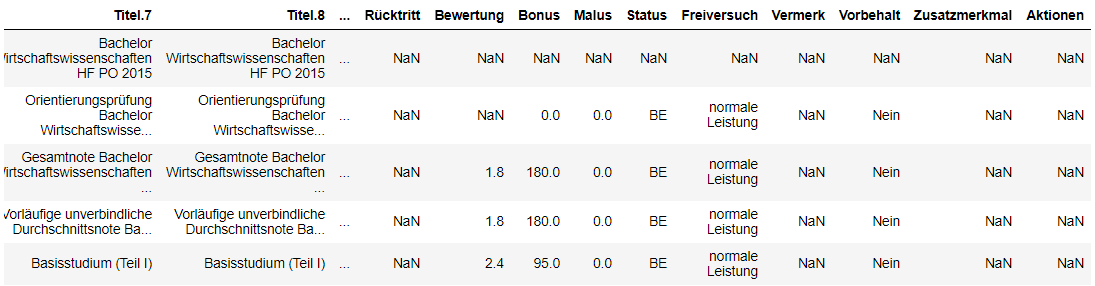
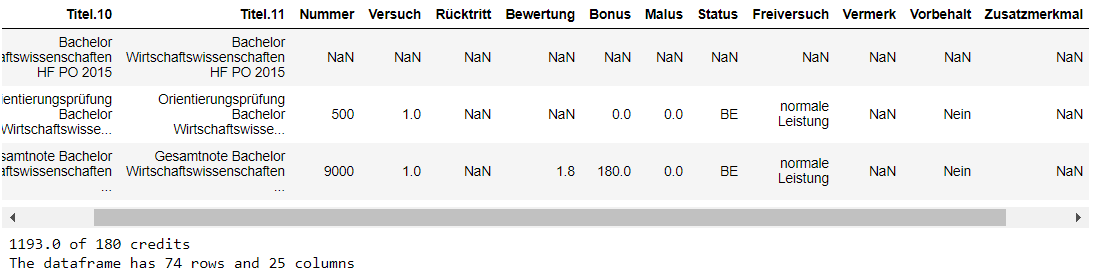
new github

diff --git a/_posts/2020-05-25-Visualizing-the-Composition-of-Study-Programmes-in-Python.md b/_posts/2020-05-25-Visualizing-the-Composition-of-Study-Programmes-in-Python.md
@@ -14,8 +14,10 @@ excerpt: "A short introduction in Web Scraping and Data Visualization in Python"
 
 ---
 
-In this blog post I am going to explain the steps starting from a data table we see on a particular web page, over data cleansing and manipulating thus we end up with a user-friendly presentation of the data.\n
-When performing the analysis steps I often do only present the first few rows of the dataframe to save some space.
+In this blog post I am going to explain the steps starting from a data table we see on a particular web page, over data cleansing and manipulating thus we end up with a user-friendly presentation of the data.
+
+When performing the analysis steps I often do only present the first few rows of the dataframe to save some space.  
+Furthermore, you may read the comments in the coding-section (indicated with **#**) to better understand the written code.
 
 The final result will be a visually representation of the bachelor programme I have attended in Konstanz:
 
@@ -25,8 +27,8 @@ The final result will be a visually representation of the bachelor programme I h
 ## Let's start from scratch!
 
 ### 1. Scrape some data from the web
-There are several libraries for web scraping available. The most common in python are BeautifulSoup and Selenium. Both have their advantages and disadvantages but are intuitively and easy to apply.
-Due to complexity issues of the exam table I use a combination of both in this project.
+There are several libraries for web scraping available. The most common in python are BeautifulSoup and Selenium. Both have their advantages and disadvantages but are intuitively and easy to apply.  
+Due to complexity issues of the exam table we want to scrape in this session I use a combination of both in this project. Selenium has to unveil the required information before the HTML-code can be extracted.
 
 ### 1.1 Set-up the webdriver for your browser
 ```python
@@ -39,7 +41,7 @@ Due to complexity issues of the exam table I use a combination of both in this p
   options.add_argument("--disable-setuid-sandbox")
 ```
 
-### 1.2 Login on the website and navigate to Exam Results
+### 1.2 Login on the Website and Navigate to Exam Results
 ```python
   driver = webdriver.Chrome("...path to you chromedriver.exe...", options=options)#
 
@@ -55,19 +57,21 @@ Due to complexity issues of the exam table I use a combination of both in this p
   password.send_keys("...Password...")
   driver.find_element_by_name("...Element name of Login Button...").click()
 
-  #navigate to the exam results (in this case we deal with an collapsed table thus we need to manually expand the table with Selenium)
+  #navigate to the exam results
+  #(in this case we deal with an collapsed table thus we need to manually expand the table with Selenium)
   driver.get('...Link of the page with your exam results...')
   #find the element to expand the whole table
   driver.find_element_by_id("...id of element that expands the whole table").click()
 ```
 
-First, the algorithm opens the login page and continues entering the login details and "click" submit. Second, it navigates to the page that contains exam results and expands all the root nodes to unveil all modules. At this point we are able to extract the needed HTML-code from the web page.
+First, the algorithm opens the login page and continues entering the login details and "click" submit. Second, it navigates to the page that contains exam results and expands all the root nodes to unveil all modules. At this point we are able to extract the needed HTML-code from the web page.  
+The required information about the web page's elements can be found by the web developer tool of your browser.
 
 ![Selenium Worksteps](/assets/videos/selenium-login-and-toggle.gif)
 
-### 1.3 Find the table of interest and get the HTML code with BeautifulSoup
-In the next step I need to extract the unveiled information. For this purpose I use BeautifulSoup to receive the HTML-code of the result table that is found by the xpath. The xpath is provided by the chrome developer tool. (Check out the web for further explanation)
-Soup_expanded provides the HTML-code of the exam results.
+### 1.3 Find the Table of Interest and get the HTML Code with BeautifulSoup
+In the next step we need to extract the unveiled information. For this purpose we make use of the BeautifulSoup library to receive the HTML-code of the results table that ca be found by its xpath. The xpath is also provided by the web developer tool of your browser. (Check out the web for further explanation)  
+The extracted HTML-code that contains unwrapped information is assigned to the variable _Soup_expanded_.
 
 ```python
   from bs4 import BeautifulSoup
@@ -80,7 +84,7 @@ Soup_expanded provides the HTML-code of the exam results.
 ```
 
 ### 1.4 Create a Pandas Dataframe
-At this point we scraped the data but cannot process the information we received so far. In order to perform data cleansing and manipulation to visualize the data, we assign the HTML-code to a Pandas DataFrame.
+At this point we scraped the data but cannot process the information so far since it is still in HTML-format. In order to perform data cleansing and manipulation to with the goal to visualize data, we assign the HTML-code to a Pandas DataFrame.
 
 ```python
   import pandas as pd
@@ -90,21 +94,28 @@ At this point we scraped the data but cannot process the information we received
 
   #Giving the HTML table to pandas to put in a dataframe object
   df = pd.read_html(str(table), header=1)[0]
+
+  print("The dataframe has",df.shape[0], "rows and", df.shape[1],"columns")
+  print(df["Bonus"].sum(), "of 180 credits")
 ```
 
-Finally, we received a cross-sectional data table that provides observations in rows and different variables (e.g. Grade, Credits, Attempt, Module_nr) in the columns. However, since we have some columns that do not provide utility, we are going to tide up!
+Finally, we receive a cross-sectional data table that provides observations in rows and different variables (e.g. Grade, Credits, Attempt, Module_nr) in the columns. However, since we have some columns that are a bit messy, we are going to tide it up! We find a dataframe shape of 74x25 [rows x columns]. I do not remember that I participated in that many exams!  
+Further, when adding up all credits included in the data, we receive unbeatable 1193 credit points.
 
 ![df.head()](/assets/images/posts/25_05_20/1_4_df.png)
 
 ### 2. Wrangle Dangle Ding Dong!
 ### 2.1 Clean Data is good Data
-Our dataset is quite small thus it seems relatively easy to structure the data.
+Our dataset is small thus it seems quite easy to be structured.
 We face several problems:
-  1. Many variables that do not make sense
-  2. German column names
-  3. Modules are not unique caused to the root node style of the original web table
+  1. Many variables that do not make sense  
+     (e.g. multiple columns with the same information)
+  2. German column names  
+     (since we want to communicate our results to an english audience)
+  3. Some modules are not unique  
+     (caused by the root node style of the original web table)
 
-The following code snippet solves the above mentioned problems. This step is not universal for all students since the provided conditions may vary depending on whether a student did an internship or not. Furthermore, some want to observe rather passed modules than every module that has ever been attended.
+The following code snippet solves the above mentioned problems. This step is not a universal process since the provided conditions may vary depending on whether a student did an internship or not. Furthermore, some want rather observe only passed modules than every module that has ever been attended.
 
 ```python
   #inspect columns and select the data
@@ -125,12 +136,16 @@ The following code snippet solves the above mentioned problems. This step is not
   print(df_modules["Credits"].sum(), "of 180 credits included in the data")
 ```
 ![df_clean.head()](/assets/images/posts/25_05_20/2_1_df.png)
+![df_clean.head()](/assets/images/posts/25_05_20/2_1_after_cleansing.png)
+
+The shape of our data has reduced from 74x25 to 26x5 [rows x columns]. In addition the number of credit points decreased from 1193 to 180 credits.  
+This seems to be much more reliable!
 
 ### 2.2 Rename Modules that cannot be distinguished from Others
-During the double check of the most recent changes we notice 3 modules "Anerkennung" that cannot be distinguished from each other. These are modules I have attended abroad and should be renamed since the scraping process was not able to receive the correct names.
+During doublechecking our data after the recent changes, we notice three modules called "Anerkennung" that cannot be distinguished from each other. These are modules I have attended abroad. We should rename these modules manually since the scraping process was not able to receive the correct names in the automated process.
 
 ```python
-  #Manipulate data in column "Module" since "Anerkennung" is not the modules name (course taken abroad and credited in germany)
+  #Manipulate data in column "Module" since "Anerkennung" is not the modules name (course taken abroad and credited in Germany)
   df_modules["Module"][df_modules["Module_nr"] == "22"] = "Econometrics"
   df_modules["Module"][df_modules["Module_nr"] == "21"] = "Financial Markets & Institutions"
   df_modules["Module"][df_modules["Module_nr"] == "20"] = "Operations & Supply Chain Management"
@@ -141,7 +156,7 @@ During the double check of the most recent changes we notice 3 modules "Anerkenn
 ![df_unique_modules.head()](/assets/images/posts/25_05_20/2_2_abroad_correction.png)
 
 ### 2.3 Provide English Translations of the Modules
-We create a first list of the Module column and zip it (pairwise) with a second list that includes english translations. The resulting object is a german(keys) - english(values) dictionary. Finally, we assign the english names to a new column.
+We create a first list of the Module column and zip it (pairwise) with a second list that includes English translations. The resulting object is a German(keys)-English(values) dictionary. Finally, we assign the English module names to a new column.
 
 ```python
   #create a list of the "Module" column
@@ -184,7 +199,7 @@ We create a first list of the Module column and zip it (pairwise) with a second 
 ```
 
 ### 2.4 Sections Matter!
-It may be of interest which module is assigned to as certain study section for a brief insight into the curriculum. Therefore, I write a dictionary with study sections as keys and lists of modules as values. Each list (value) is assigned to a certain key.
+It may be of interest which module may be classified in a certain study section. This offers deeper insights into the curriculum. Therefore, we write a dictionary with study sections as keys and lists of modules as values. Each module list (value) is assigned to a certain section (key).
 
 ```python
   import numpy as np
@@ -219,16 +234,17 @@ It may be of interest which module is assigned to as certain study section for a
                         "Psychology": ["Social Psychology"],
                         "Internship": ["Internship",
                                        "IT-Module",
-                                       "Negotiations"                                  ]
-                        }
+                                       "Negotiations"
+                                      ]
+                         }
 
   #search for tags in module names
   df_modules["Section"] = "none"
   for i in range(len(section_module_dict.keys())):
-    df_modules["Section"] = np.where(df_modules["Module_eng"].str.contains('|'.join(list(section_module_dict.values())[i])),list(section_module_dict)[i], df_modules["Section"])
-
-  #check if all sections are assigned properly
-  df_modules
+    df_modules["Section"] = np.where(df_modules["Module_eng"].str.contains('|'.join(list(section_module_dict.values())[i])),
+                                     list(section_module_dict)[i],
+                                     df_modules["Section"]
+                                    )
 ```
 
 The "for-loop" searches for strings that are included in the values (lists) for each index of the dictionary. If a certain module is included in the list of an index, the key of this index is assigned to a column "Sections". If the value is not in this list, the column does not change at all.
